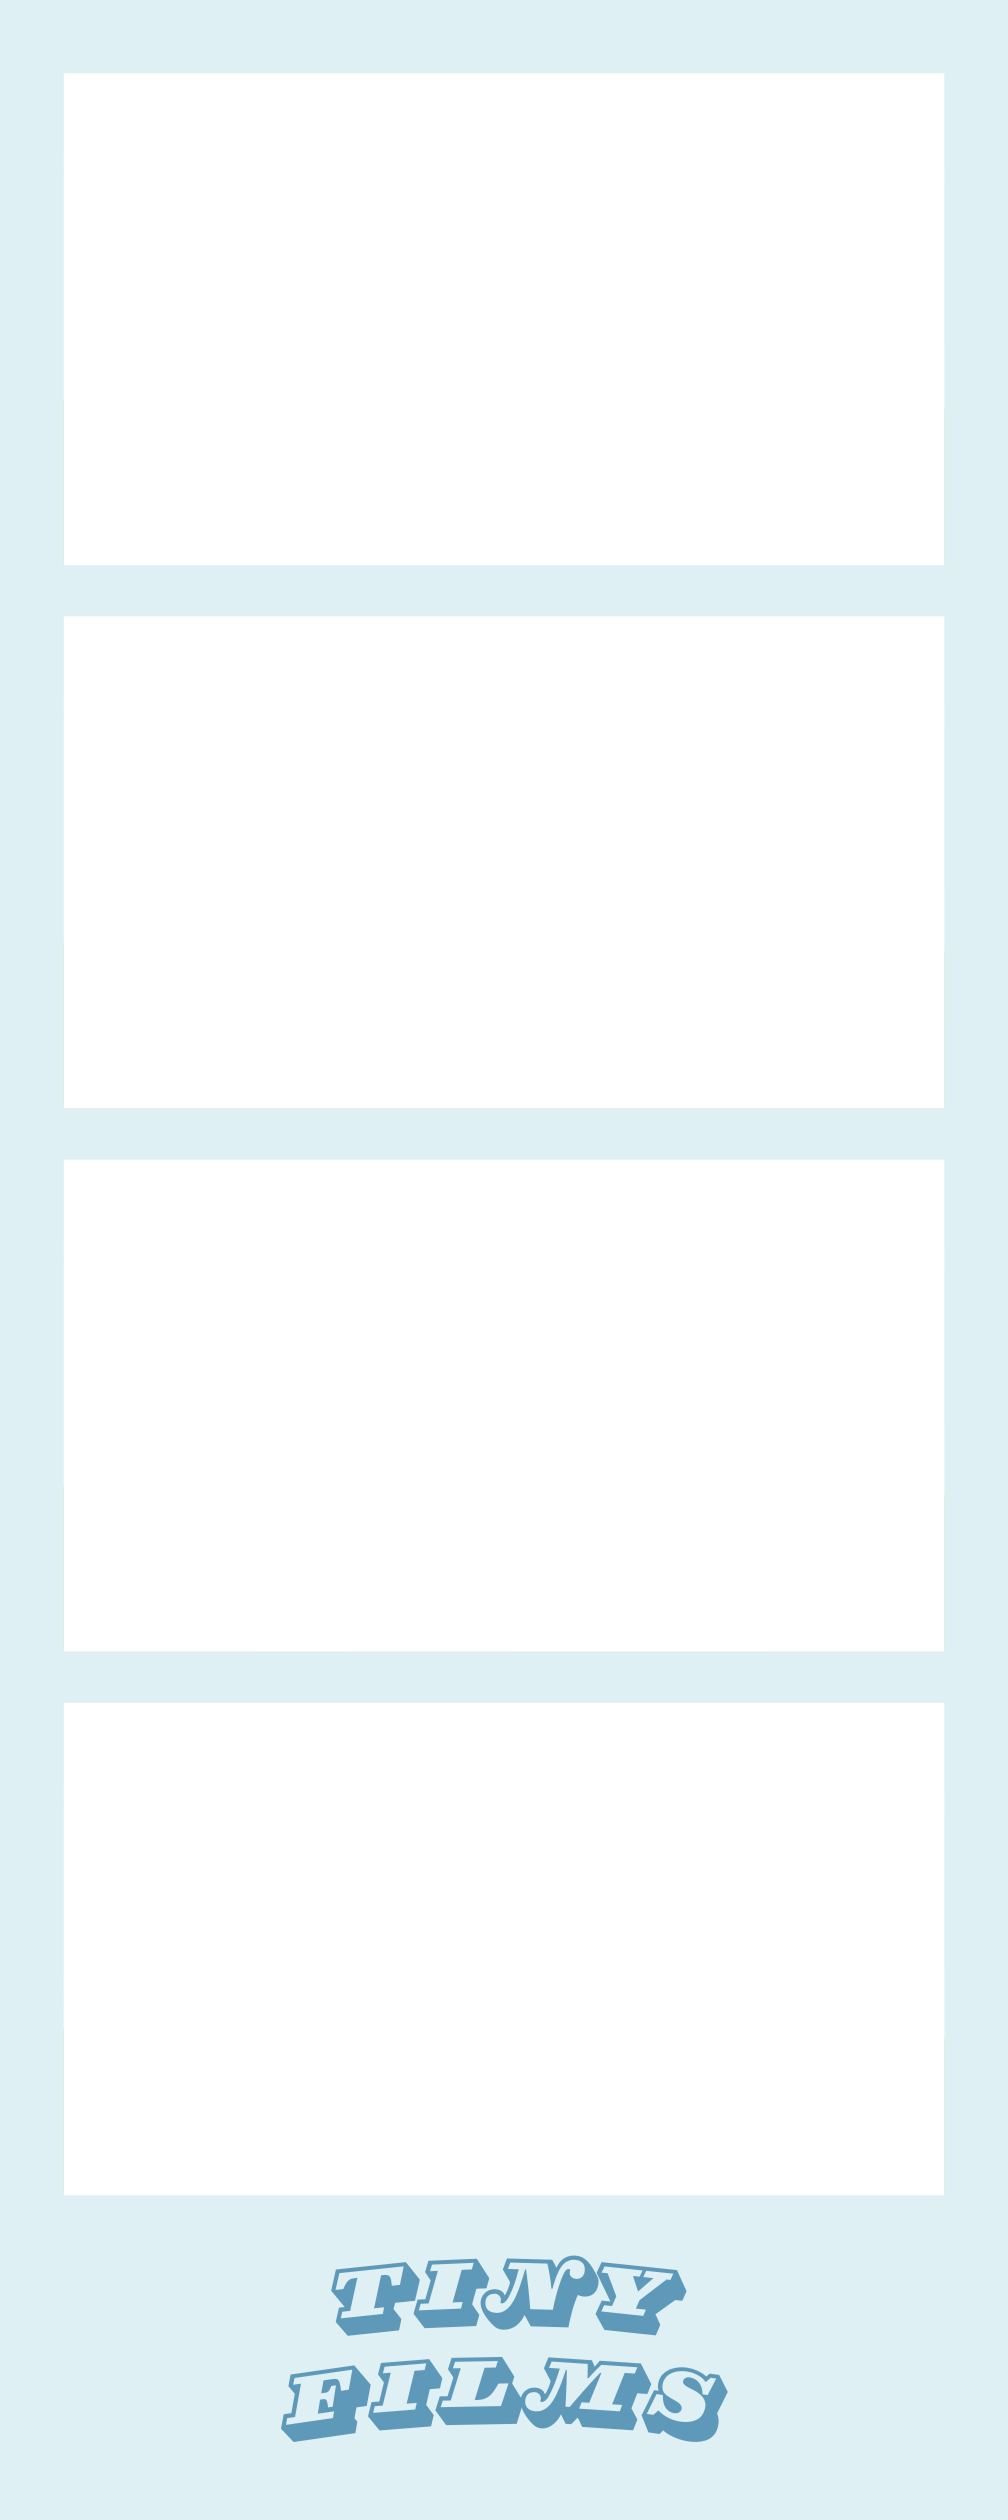
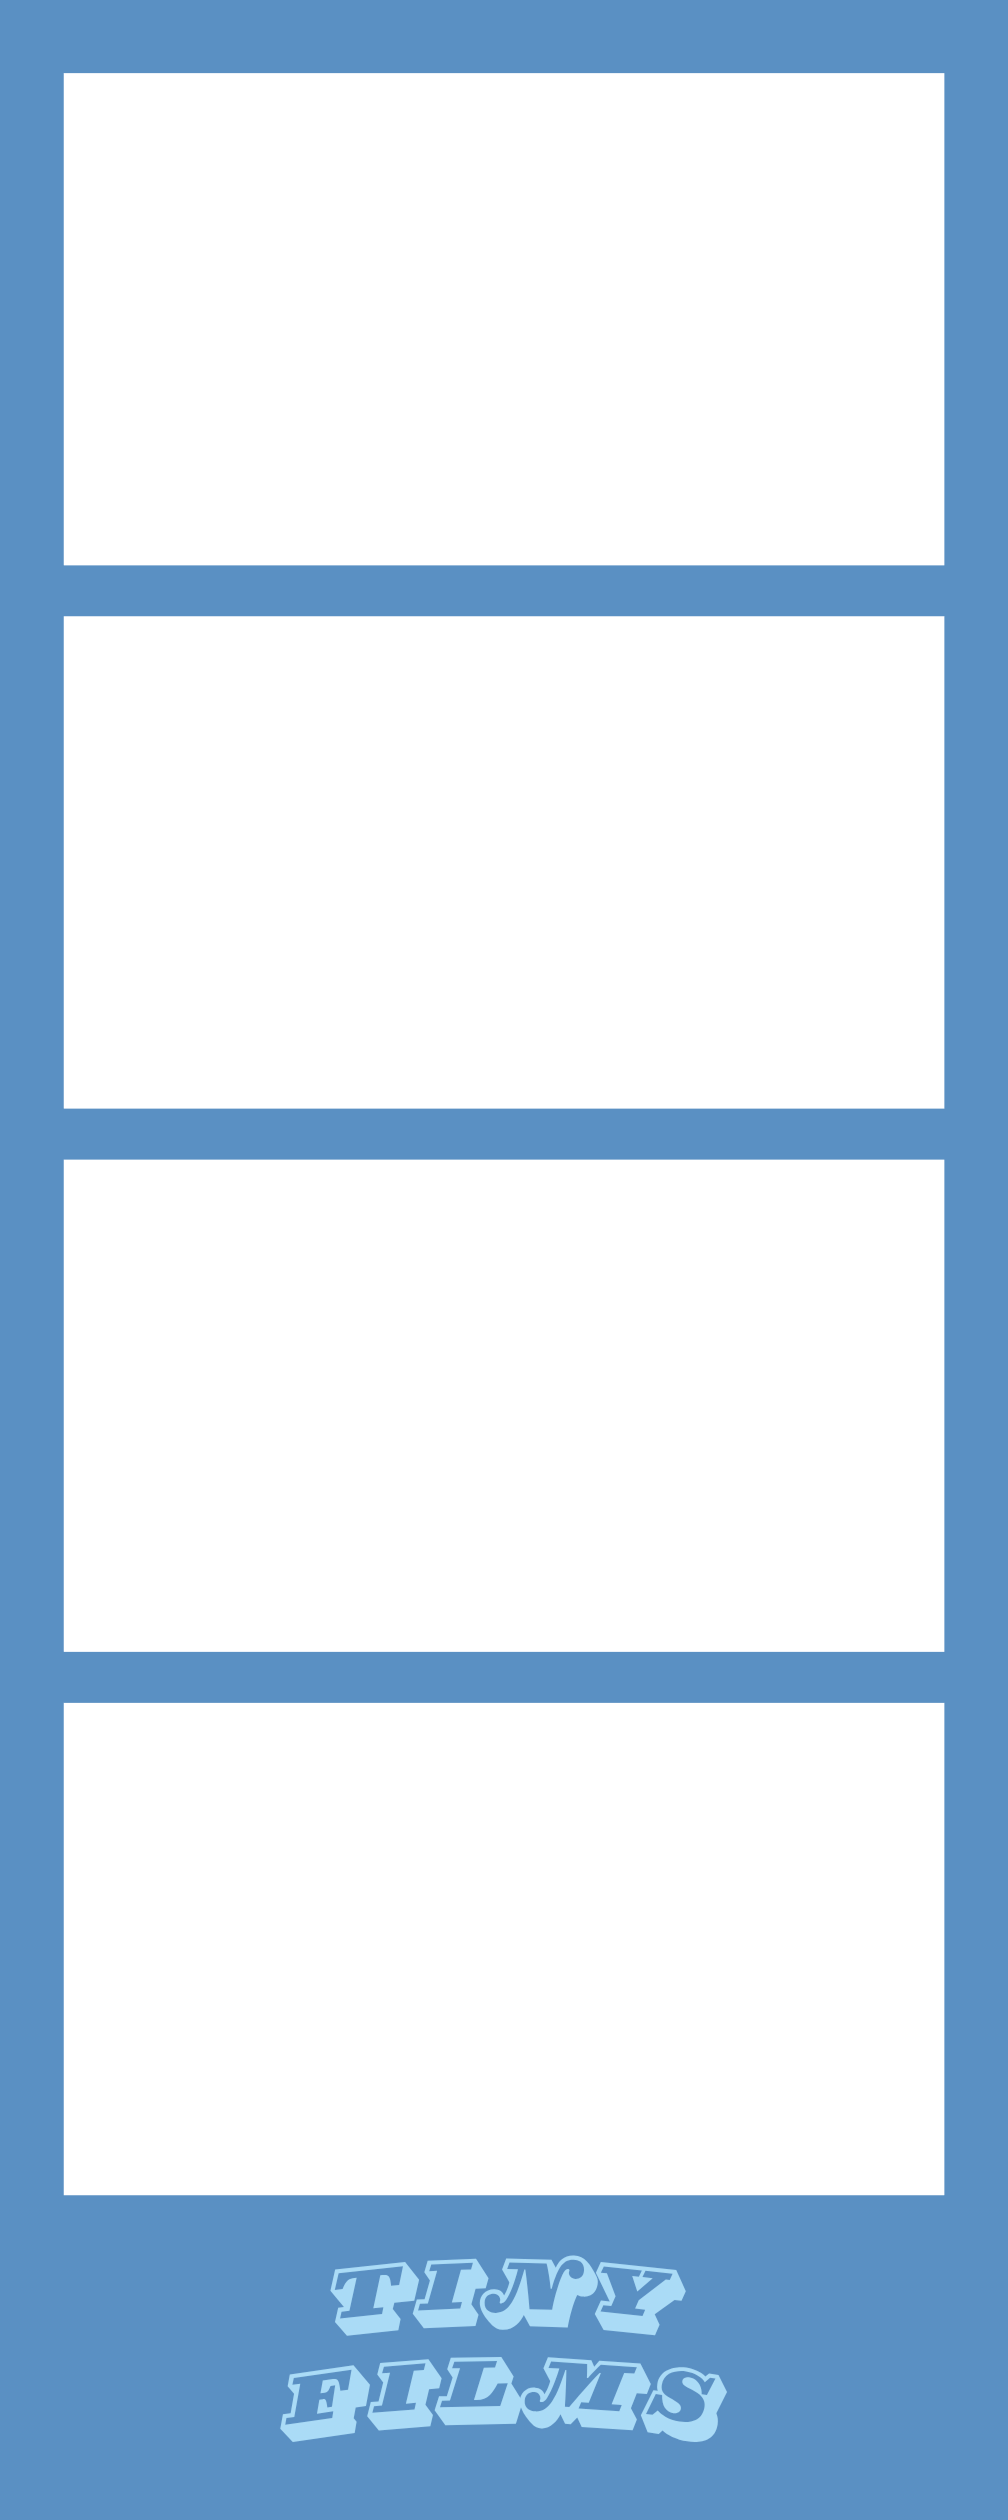
feat: add pink, purple and blue themed film frames

diff --git a/src/data/frameOptions.js b/src/data/frameOptions.js
@@ -1,12 +1,47 @@
 export const frameOptions = [
+  // pink theme
   "/assets/frames/pink-frame.png",
   "/assets/frames/pink-cherry-blossom.png",
+  "/assets/frames/pink-bouquet.png",
+  "/assets/frames/pink-waves.png",
+  "/assets/frames/pink-rose.png",
+  "/assets/frames/pink-hearts.png",
+  // purple theme
   "/assets/frames/purple-frame.png",
   "/assets/frames/purple-simple.png",
+  "/assets/frames/purple-dessert.png",
+  "/assets/frames/purple-metallic.png",
+  "/assets/frames/purple-butterfly.png",
+  "/assets/frames/purple-waves.png",
+  // light azure theme
+  "/assets/frames/azure-light-frame.png",
+  "/assets/frames/azure-light-beach.png",
+  "/assets/frames/azure-light-koi-fish.png",
+  "/assets/frames/azure-light-waves.png",
+  "/assets/frames/azure-light-duck.png",
+  // blue theme
+  "/assets/frames/blue-frame.png",
+  "/assets/frames/blue-waves.png",
+  "/assets/frames/blue-waves-flowers.png",
+  "/assets/frames/blue-simple.png",
+  "/assets/frames/blue-seaside.png",
+  "/assets/frames/blue-underwater.png",
+  // azure theme 
+  "/assets/frames/azure-frame.png",
+  "/assets/frames/azure-waves.png",
+  "/assets/frames/azure-ribbon.png",
+  "/assets/frames/azure-jelly.png",
+  "/assets/frames/azure-puppy.png",
+  "/assets/frames/azure-simple.png",
+  // dark blue theme
+  "/assets/frames/dark-blue-frame.png",
+  "/assets/frames/dark-blue-waves.png",
+  "/assets/frames/dark-blue-beach.png",
+  "/assets/frames/dark-blue-pacman.png",
+  "/assets/frames/dark-blue-spiderman.png",
+  "/assets/frames/dark-blue-game.png",
   "/assets/frames/cyan-frame.png",
   "/assets/frames/cyan-underwater.png",
-  "/assets/frames/azure-frame.png",
-  "/assets/frames/azure-beach.png",
   "/assets/frames/yellow-frame.png",
   "/assets/frames/yellow-picnic.png",
   "/assets/frames/cream-frame.png",
